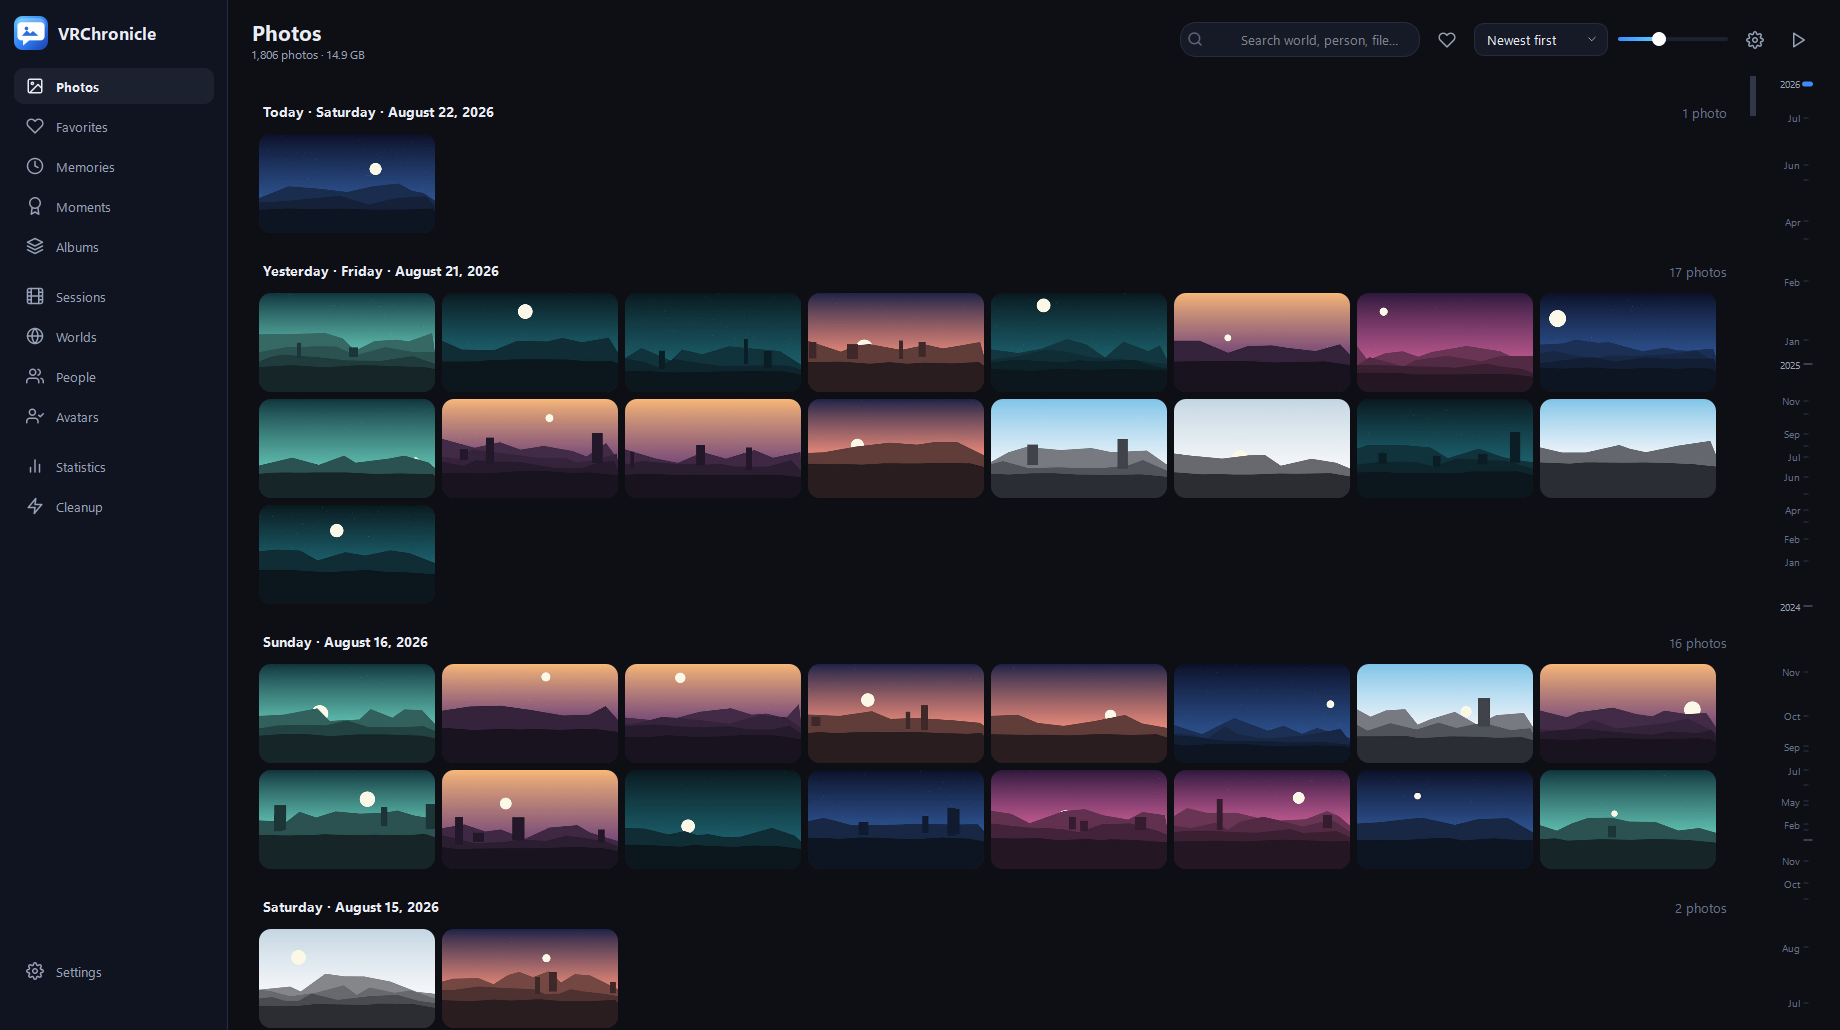
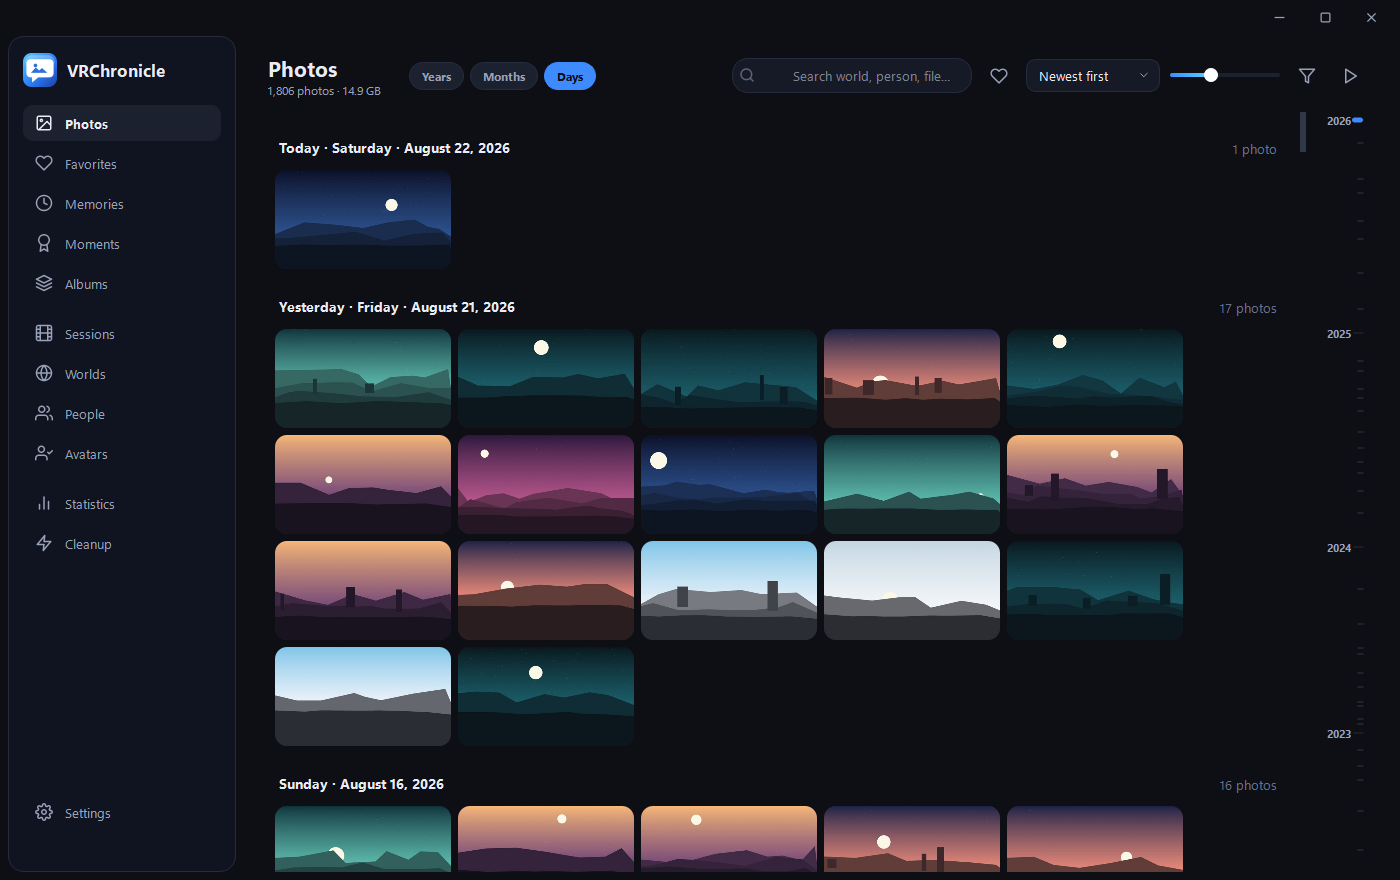
1.7.0: the app draws its own window
Frameless, with a title bar built from the same parts as the rest of the UI:
minimise, maximise/restore and close, hover states from the app's palette, the
close button going red rather than grey. No Windows chrome above the app any
more, and the sidebar is a floating rounded panel with the window showing
around it rather than a wall butted against the frame.

Dragging and resizing are handed to the compositor -- startSystemMove and
startSystemResize -- rather than moved by hand. That is what keeps Aero Snap,
the snap-layout flyout on the maximise button and the shake gestures working;
a frameless window that moves itself loses all of them. DWM is asked for
rounded corners and a shadow, which a frameless window otherwise gives up.

Two things the tests caught, both invisible until something actually ran:
- Qt's edge flags are not ints. int() on a combined one raises TypeError, so
  the cursor lookup could never have worked as a dict keyed on int(edges).
- A frameless window maximised to the FULL screen covers the taskbar. The test
  asserts the maximised frame stays inside the screen's available geometry,
  which is the classic way this goes wrong.

While maximised the outer margin collapses and the corners are squared, since
there is no border to grab and nothing to float over.

Tests 107 -> 108.

diff --git a/vrchronicle/mainwindow.py b/vrchronicle/mainwindow.py
@@ -56,7 +56,13 @@ def _nav_icon(name):
     return ic
 
 
+NO_EDGE = Qt.Edges()      # built once: the empty flag is awkward to construct
+
+
 class MainWindow(QMainWindow):
+    EDGE = 8            # gap around the floating panels, and the resize border
+    NO_EDGE = NO_EDGE
+
     def __init__(self, app, cfg, db, auto_index=True):
         super().__init__()
         self.app = app
@@ -79,17 +85,31 @@ class MainWindow(QMainWindow):
         self._current_key = "all"
         self._drill_from = None
 
+        # Frameless, with the app's own title bar. Aero Snap, the snap-layout
+        # flyout and edge resizing all still work: the drag and the resize are
+        # handed to the compositor rather than done by hand.
+        self.setWindowFlag(Qt.FramelessWindowHint, True)
+        self.setAttribute(Qt.WA_Hover, True)
+
         root = QWidget()
         root.setObjectName("Root")
-        rl = QHBoxLayout(root)
-        rl.setContentsMargins(0, 0, 0, 0)
-        rl.setSpacing(0)
+        outer = QVBoxLayout(root)
+        outer.setContentsMargins(0, 0, 0, 0)
+        outer.setSpacing(0)
+        self.titlebar = widgets.TitleBar(self)
+        outer.addWidget(self.titlebar)
+        body = QWidget()
+        rl = QHBoxLayout(body)
+        rl.setContentsMargins(self.EDGE, 0, self.EDGE, self.EDGE)
+        rl.setSpacing(self.EDGE)
+        outer.addWidget(body, 1)
         self.setCentralWidget(root)
 
         # ---------------- sidebar ----------------
         side = QFrame()
         side.setObjectName("Sidebar")
         side.setFixedWidth(228)
+        side.setAttribute(Qt.WA_StyledBackground, True)
         sv = QVBoxLayout(side)
         sv.setContentsMargins(14, 16, 14, 14)
         sv.setSpacing(4)
@@ -1145,6 +1165,72 @@ class MainWindow(QMainWindow):
         self.toast(f"Accent: {style.ACCENTS[key]['label']}", "ok")
 
     # ---------------- window plumbing ----------------
+    # ---------------- frameless window: edges and state ----------------
+    def _edges_at(self, pos):
+        """Which border the pointer is on, for resizing a frameless window."""
+        if self.isMaximized() or self.isFullScreen():
+            return NO_EDGE
+        m, r = self.EDGE, self.rect()
+        edges = NO_EDGE
+        if pos.x() <= m:
+            edges |= Qt.LeftEdge
+        elif pos.x() >= r.width() - m:
+            edges |= Qt.RightEdge
+        if pos.y() <= m:
+            edges |= Qt.TopEdge
+        elif pos.y() >= r.height() - m:
+            edges |= Qt.BottomEdge
+        return edges
+
+    def _cursor_for(self, edges):
+        """Qt's edge flags are not ints -- int() on a combined one raises --
+        so they are compared as flags rather than used as dictionary keys."""
+        if not edges:
+            return None
+        for combo, cursor in ((Qt.LeftEdge | Qt.TopEdge, Qt.SizeFDiagCursor),
+                              (Qt.RightEdge | Qt.BottomEdge, Qt.SizeFDiagCursor),
+                              (Qt.RightEdge | Qt.TopEdge, Qt.SizeBDiagCursor),
+                              (Qt.LeftEdge | Qt.BottomEdge, Qt.SizeBDiagCursor)):
+            if edges == combo:
+                return cursor
+        if edges in (Qt.LeftEdge, Qt.RightEdge):
+            return Qt.SizeHorCursor
+        if edges in (Qt.TopEdge, Qt.BottomEdge):
+            return Qt.SizeVerCursor
+        return None
+
+    def mouseMoveEvent(self, ev):
+        cur = self._cursor_for(self._edges_at(ev.position().toPoint()))
+        if cur is None:
+            self.unsetCursor()
+        else:
+            self.setCursor(cur)
+        super().mouseMoveEvent(ev)
+
+    def leaveEvent(self, ev):
+        self.unsetCursor()
+        super().leaveEvent(ev)
+
+    def mousePressEvent(self, ev):
+        edges = self._edges_at(ev.position().toPoint())
+        handle = self.windowHandle()
+        if ev.button() == Qt.LeftButton and edges and handle is not None:
+            handle.startSystemResize(edges)     # the compositor does the drag
+            ev.accept()
+            return
+        super().mousePressEvent(ev)
+
+    def changeEvent(self, ev):
+        super().changeEvent(ev)
+        if ev.type() == ev.Type.WindowStateChange and hasattr(self, "titlebar"):
+            self.titlebar.sync()
+            # a maximised window has no border to grab, and its corners are square
+            body = self.centralWidget().layout().itemAt(1).widget()
+            gap = 0 if self.isMaximized() else self.EDGE
+            body.layout().setContentsMargins(gap, 0, gap, gap)
+            body.layout().setSpacing(self.EDGE)
+            winutil.round_corners(self.winId(), not self.isMaximized())
+
     def resizeEvent(self, ev):
         super().resizeEvent(ev)
         if self.lightbox.isVisible():

diff --git a/vrchronicle/widgets.py b/vrchronicle/widgets.py
@@ -91,6 +91,77 @@ class Glass:
         return blurred is not None
 
 
+class TitleBar(QFrame):
+    """The window's own title bar, so the chrome matches the app.
+
+    Dragging hands off to the compositor with startSystemMove rather than
+    moving the window by hand: that is what keeps Aero Snap, the snap layouts
+    on the maximise button and the shake gestures working on a frameless
+    window.
+    """
+
+    HEIGHT = 36
+
+    def __init__(self, window):
+        super().__init__(window)
+        self.win = window
+        self.setObjectName("TitleBar")
+        self.setFixedHeight(self.HEIGHT)
+        lay = QHBoxLayout(self)
+        lay.setContentsMargins(12, 0, 6, 0)
+        lay.setSpacing(2)
+        self.lab = QLabel("")
+        self.lab.setObjectName("TitleBarText")
+        lay.addWidget(self.lab)
+        lay.addStretch(1)
+        self.btn_min = self._chrome("win-min", "Minimise", window.showMinimized)
+        self.btn_max = self._chrome("win-max", "Maximise", self.toggle_max)
+        self.btn_close = self._chrome("x", "Close", window.close, danger=True)
+        for b in (self.btn_min, self.btn_max, self.btn_close):
+            lay.addWidget(b)
+
+    def _chrome(self, icon, tip, slot, danger=False):
+        b = QPushButton()
+        b.setObjectName("WinCloseBtn" if danger else "WinBtn")
+        b.setFixedSize(44, 30)
+        b.setToolTip(tip)
+        b.setFocusPolicy(Qt.NoFocus)
+        b.setCursor(Qt.ArrowCursor)
+        b.setIcon(icons.qicon(icon, style.PAL["dim"], 15))
+        b.setIconSize(QSize(15, 15))
+        b.clicked.connect(slot)
+        return b
+
+    def set_text(self, text):
+        self.lab.setText(text)
+
+    def toggle_max(self):
+        if self.win.isMaximized():
+            self.win.showNormal()
+        else:
+            self.win.showMaximized()
+        self.sync()
+
+    def sync(self):
+        maxed = self.win.isMaximized()
+        self.btn_max.setIcon(icons.qicon("win-restore" if maxed else "win-max",
+                                         style.PAL["dim"], 15))
+        self.btn_max.setToolTip("Restore" if maxed else "Maximise")
+
+    def mouseDoubleClickEvent(self, ev):
+        if ev.button() == Qt.LeftButton:
+            self.toggle_max()
+
+    def mousePressEvent(self, ev):
+        if ev.button() == Qt.LeftButton:
+            handle = self.win.windowHandle()
+            if handle is not None:
+                handle.startSystemMove()
+                ev.accept()
+                return
+        super().mousePressEvent(ev)
+
+
 class FlowLayout(QLayout):
     def __init__(self, parent=None, margin=0, hspace=8, vspace=8):
         super().__init__(parent)

diff --git a/tests/test_smoke_ui.py b/tests/test_smoke_ui.py
@@ -11,6 +11,8 @@ pytest.importorskip("PySide6")
 
 from PySide6.QtWidgets import QApplication
 
+from PySide6.QtCore import QPoint
+
 from vrchronicle import paths
 from vrchronicle.gridmodel import KIND_PHOTO as KIND_PHOTO_KIND
 
@@ -367,6 +369,47 @@ def test_the_floating_panels_render_their_glass(window, app):
     rail._bubble.render(target)
     assert not target.isNull()
     rail._hide_bubble()
+    window.hide()
+
+
+def test_the_window_wears_its_own_chrome(window, app):
+    """Frameless with a custom bar, and still a well-behaved window."""
+    from PySide6.QtCore import Qt
+    from PySide6.QtTest import QTest
+
+    assert window.windowFlags() & Qt.FramelessWindowHint
+    tb = window.titlebar
+    for b in (tb.btn_min, tb.btn_max, tb.btn_close):
+        assert b.isEnabled()
+
+    window.resize(1100, 700)
+    window.show()
+    QTest.qWaitForWindowExposed(window)
+    app.processEvents()
+
+    # the edges must be grabbable for resizing, and the corners diagonal
+    w, h = window.width(), window.height()
+    assert window._edges_at(QPoint(2, h // 2)) == Qt.LeftEdge
+    assert window._edges_at(QPoint(w - 2, h // 2)) == Qt.RightEdge
+    assert window._edges_at(QPoint(2, 2)) == (Qt.LeftEdge | Qt.TopEdge)
+    assert not window._edges_at(QPoint(w // 2, h // 2))
+    assert window._cursor_for(Qt.LeftEdge | Qt.TopEdge) == Qt.SizeFDiagCursor
+    assert window._cursor_for(Qt.RightEdge) == Qt.SizeHorCursor
+    assert window._cursor_for(window.NO_EDGE) is None
+
+    # A frameless window that maximises to the FULL screen covers the taskbar.
+    tb.toggle_max()
+    app.processEvents()
+    assert window.isMaximized()
+    avail = window.screen().availableGeometry()
+    g = window.frameGeometry()
+    assert avail.contains(g), f"maximised past the work area: {g} vs {avail}"
+    # nothing to grab while maximised, and the panels sit flush
+    assert not window._edges_at(QPoint(2, 2))
+
+    tb.toggle_max()
+    app.processEvents()
+    assert not window.isMaximized()
     window.hide()
 
 

diff --git a/vrchronicle/icons.py b/vrchronicle/icons.py
@@ -69,6 +69,12 @@ _FEATHER = {
     "info": '<circle cx="12" cy="12" r="10"/><line x1="12" y1="16" x2="12" y2="12"/>'
             '<line x1="12" y1="8" x2="12.01" y2="8"/>',
     "plus": '<line x1="12" y1="5" x2="12" y2="19"/><line x1="5" y1="12" x2="19" y2="12"/>',
+    # window chrome: thin and square, the way every title bar draws them
+    "win-min": '<line x1="5" y1="12" x2="19" y2="12"/>',
+    "win-max": '<rect x="5" y="5" width="14" height="14" rx="1.5"/>',
+    "win-restore": '<rect x="4" y="8" width="12" height="12" rx="1.5"/>'
+                   '<path d="M8 8V5.5A1.5 1.5 0 0 1 9.5 4h9A1.5 1.5 0 0 1 20 5.5v9'
+                   'A1.5 1.5 0 0 1 18.5 16H16"/>',
     "check": '<polyline points="20 6 9 17 4 12"/>',
     "shuffle": '<polyline points="16 3 21 3 21 8"/><line x1="4" y1="20" x2="21" y2="3"/>'
                '<polyline points="21 16 21 21 16 21"/><line x1="15" y1="15" x2="21" y2="21"/>'

diff --git a/vrchronicle/style.py b/vrchronicle/style.py
@@ -73,7 +73,18 @@ QWidget {{
     font-size: 13px;
 }}
 QMainWindow, #Root {{ background: {P['bg']}; }}
-#Sidebar {{ background: {P['sidebar']}; border-right: 1px solid {P['border']}; }}
+/* a floating panel rather than a wall: it sits on the window with a margin
+   and its own rounded edge, the way the rest of the app's surfaces do */
+#Sidebar {{
+    background: {P['sidebar']}; border: 1px solid {P['border']}; border-radius: 16px;
+}}
+#TitleBar {{ background: transparent; }}
+#TitleBarText {{ color: {P['faint']}; font-size: 12px; }}
+QPushButton#WinBtn, QPushButton#WinCloseBtn {{
+    background: transparent; border: none; border-radius: 8px;
+}}
+QPushButton#WinBtn:hover {{ background: {P['hover']}; }}
+QPushButton#WinCloseBtn:hover {{ background: {P['danger']}; }}
 #PageHeaderTitle {{ font-size: 21px; font-weight: 600; }}
 #PageHeaderSub {{ color: {P['dim']}; font-size: 12px; }}
 #SectionLabel {{

diff --git a/vrchronicle/winutil.py b/vrchronicle/winutil.py
@@ -159,6 +159,22 @@ def dark_titlebar(hwnd):
         pass
 
 
+def round_corners(hwnd, on=True):
+    """Ask DWM for rounded corners and a shadow.
+
+    A frameless window loses both by default; this puts them back, so a custom
+    title bar does not cost the window its Windows 11 shape.
+    """
+    try:
+        DWMWA_WINDOW_CORNER_PREFERENCE = 33
+        val = ctypes.c_int(2 if on else 1)      # 2 = round, 1 = do not round
+        ctypes.windll.dwmapi.DwmSetWindowAttribute(
+            int(hwnd), DWMWA_WINDOW_CORNER_PREFERENCE,
+            ctypes.byref(val), ctypes.sizeof(val))
+    except Exception:
+        pass
+
+
 def set_app_id(app_id="VRChronicle.Desktop"):
     try:
         ctypes.windll.shell32.SetCurrentProcessExplicitAppUserModelID(app_id)

diff --git a/vrchronicle/paths.py b/vrchronicle/paths.py
@@ -6,7 +6,7 @@ import faulthandler
 APP_NAME = "VRChronicle"
 APP_TAGLINE = "VRChat photo album"
 APP_ID = "VRChronicle.Desktop"      # AppUserModelID: taskbar grouping identity
-APP_VERSION = "1.6.1"
+APP_VERSION = "1.7.0"
 _LEGACY_NAMES = ("Aperture",)     # data dirs from before the rename
 
 APPDIR = os.path.join(os.environ.get("LOCALAPPDATA", os.path.expanduser("~")), APP_NAME)

diff --git a/vrchronicle/app.py b/vrchronicle/app.py
@@ -111,6 +111,7 @@ def main(argv=None):
     else:
         win.show()
         winutil.dark_titlebar(win.winId())
+        winutil.round_corners(win.winId(), True)
 
     if args.shot:
         def snap():

diff --git a/README.md b/README.md
@@ -14,6 +14,13 @@ because it reads the same logs VRChat throws away.
 > is a generated scene. Publishing who somebody actually plays with, or the photos
 > they are in, is exactly the thing this app warns you about.
 
+## The window
+
+Frameless, with the app's own title bar and window buttons, and the sidebar floating on
+it as a rounded panel. Dragging and edge-resizing are handed to Windows rather than done
+by hand, so Aero Snap, the snap-layout flyout and the rounded Windows 11 corners all
+still work.
+
 ## Browsing
 
 **Years → Months → Days.** Zoom out to find the stretch of time, then zoom in on it.
